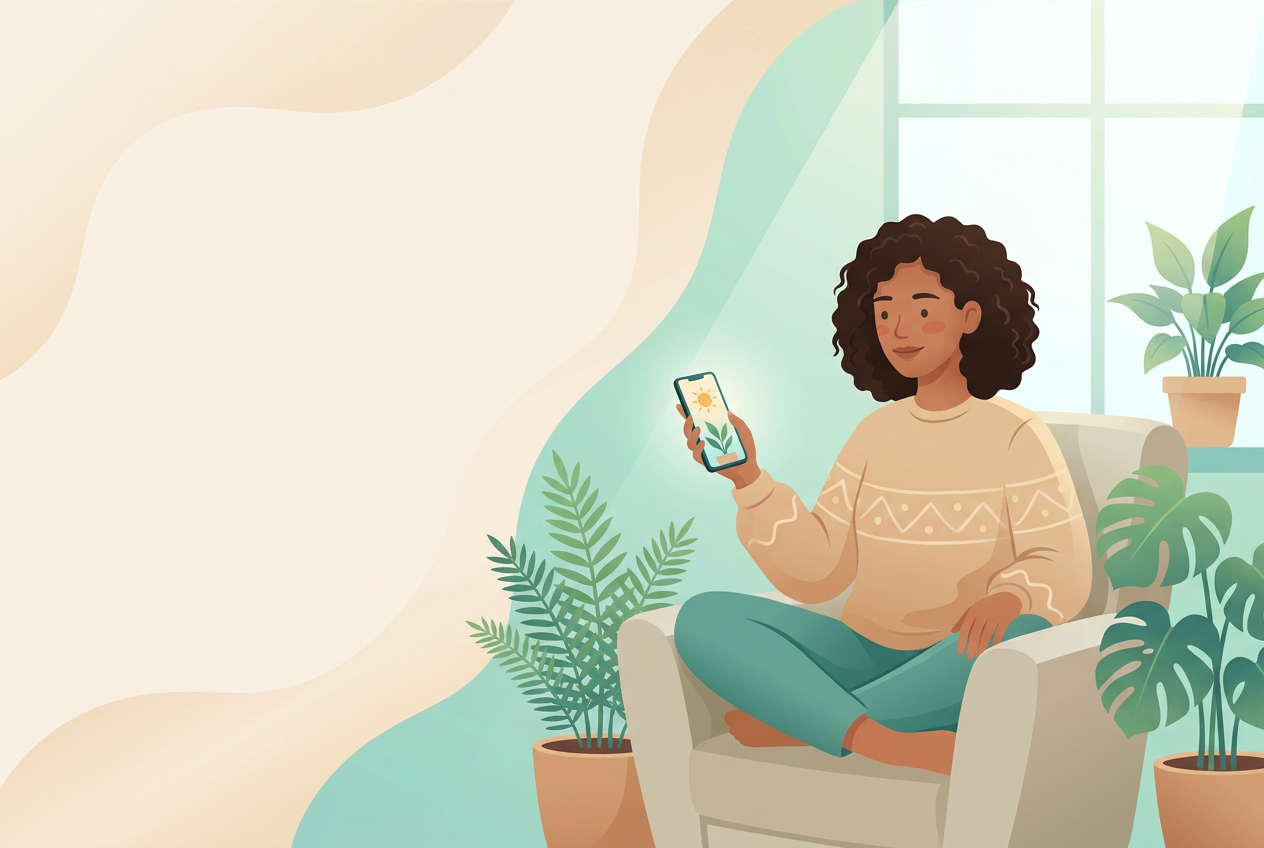
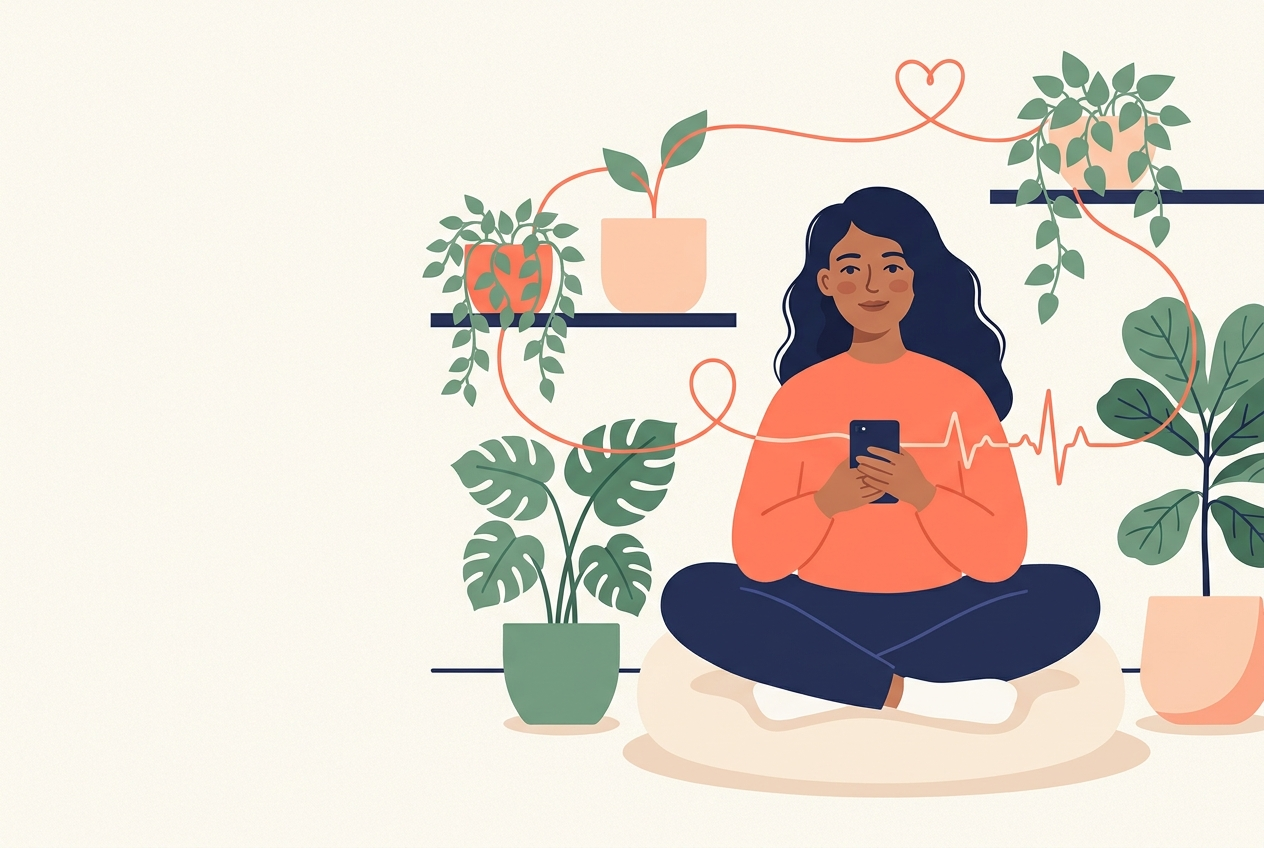
@ feat(ui): mejora visual integral (10/10) — ilustraciones, animaciones, micro-interacciones
- Higgsfield: hero, mascota (Compi) y arte abstracto "El Hilo" en paleta indigo/coral/salvia.
- Landing: aurora animada, "El Hilo" que se dibuja (stroke), scroll-reveal escalonado,
  flotacion, cards con lift+glow, botones con brillo, hover en iconos.
- Panel: entrada de pagina, cards interactivas, nav animado, campana/SOS con latido, spinner,
  brillo en botones. Respeta prefers-reduced-motion.

@

diff --git a/landing/src/app/globals.css b/landing/src/app/globals.css
@@ -167,5 +167,68 @@ footer a:hover { color: var(--coral); }
 .disclaimer { border-top: 1px solid rgba(255,255,255,.1); padding-top: 20px; font-size: 13px; color: var(--indigo-300); }
 .endorse { font-size: 12px; color: var(--indigo-300); margin-top: 8px; }
 
-.fade-up { animation: fadeUp .7s cubic-bezier(.4,0,.2,1) both; }
-@keyframes fadeUp { from { opacity: 0; transform: translateY(16px); } to { opacity: 1; transform: none; } }
+.fade-up { animation: fadeUp .8s cubic-bezier(.16,1,.3,1) both; }
+@keyframes fadeUp { from { opacity: 0; transform: translateY(20px); } to { opacity: 1; transform: none; } }
+
+/* ===================== POLISH VISUAL 10/10 ===================== */
+@media (prefers-reduced-motion: no-preference) {
+
+/* Scroll reveal */
+.reveal { opacity: 0; transform: translateY(28px); transition: opacity .7s cubic-bezier(.16,1,.3,1), transform .7s cubic-bezier(.16,1,.3,1); }
+.reveal.in { opacity: 1; transform: none; }
+
+/* Aurora / mesh animada en hero y CTA */
+.aurora { position: absolute; inset: -20%; z-index: -2; filter: blur(60px); opacity: .55; pointer-events: none; }
+.aurora span { position: absolute; border-radius: 50%; mix-blend-mode: multiply; animation: drift 18s ease-in-out infinite; }
+.aurora .a1 { width: 46vw; height: 46vw; left: 55%; top: -10%; background: radial-gradient(circle, rgba(255,122,89,.55), transparent 70%); }
+.aurora .a2 { width: 40vw; height: 40vw; left: -10%; top: 20%; background: radial-gradient(circle, rgba(95,155,126,.45), transparent 70%); animation-delay: -6s; }
+.aurora .a3 { width: 38vw; height: 38vw; left: 30%; top: 40%; background: radial-gradient(circle, rgba(123,145,188,.45), transparent 70%); animation-delay: -12s; }
+@keyframes drift { 0%,100% { transform: translate(0,0) scale(1); } 33% { transform: translate(4%, -6%) scale(1.08); } 66% { transform: translate(-5%, 5%) scale(.95); } }
+
+/* El Hilo que se dibuja solo */
+.hilo-draw path { stroke-dasharray: 2600; stroke-dashoffset: 2600; animation: draw 3s cubic-bezier(.16,1,.3,1) forwards; }
+.hilo-draw path:nth-child(2) { animation-delay: .25s; opacity: .5; }
+@keyframes draw { to { stroke-dashoffset: 0; } }
+
+/* Flotación suave (logo/orbes/hero art) */
+.float { animation: float 7s ease-in-out infinite; }
+@keyframes float { 0%,100% { transform: translateY(0); } 50% { transform: translateY(-12px); } }
+
+/* Latido del isotipo (nav/footer) */
+.brand-lockup:hover svg { animation: beat 1.2s ease-in-out; }
+@keyframes beat { 0%,100% { transform: scale(1); } 25% { transform: scale(1.12); } 40% { transform: scale(.96); } 60% { transform: scale(1.06); } }
+
+}
+
+/* Tarjetas: lift + glow (también sin motion, es hover) */
+.card { position: relative; }
+.card::after { content: ""; position: absolute; inset: 0; border-radius: inherit; box-shadow: 0 0 0 0 rgba(255,122,89,0); transition: box-shadow .3s, border-color .3s; pointer-events: none; }
+.card:hover { transform: translateY(-6px); }
+.card:hover::after { box-shadow: 0 0 0 1.5px rgba(255,122,89,.35); }
+.card .ico { transition: transform .3s cubic-bezier(.16,1,.3,1), background .3s; }
+.card:hover .ico { transform: scale(1.1) rotate(-4deg); background: var(--coral); color: #fff; }
+
+/* Botones con brillo */
+.btn { position: relative; overflow: hidden; }
+.btn::before { content: ""; position: absolute; top: 0; left: -120%; width: 60%; height: 100%; background: linear-gradient(100deg, transparent, rgba(255,255,255,.45), transparent); transform: skewX(-18deg); transition: left .55s ease; }
+.btn:hover::before { left: 140%; }
+
+/* Hero art frame con borde gradiente */
+.hero-art { position: relative; }
+.hero-art::before { content: ""; position: absolute; inset: -2px; border-radius: calc(var(--radio-xl) + 2px); background: linear-gradient(130deg, var(--coral), var(--salvia), var(--azul)); z-index: -1; opacity: .8; }
+
+/* Eyebrow con punto que pulsa */
+.eyebrow::after { content: ""; width: 7px; height: 7px; border-radius: 50%; background: var(--salvia); margin-left: 2px; animation: pulse 2s ease-in-out infinite; }
+@keyframes pulse { 0%,100% { opacity: 1; box-shadow: 0 0 0 0 rgba(94,155,126,.5); } 50% { opacity: .6; box-shadow: 0 0 0 6px rgba(94,155,126,0); } }
+
+/* Stats grandes en Fraunces con subrayado coral */
+.hero-trust b { position: relative; }
+.steps .n { box-shadow: 0 10px 24px -10px rgba(27,42,74,.5); transition: transform .25s; }
+.step:hover .n { transform: translateY(-4px) scale(1.05); }
+
+/* Chips de roles con hover */
+.role-chip { transition: transform .2s, border-color .2s, color .2s; }
+.role-chip:hover { transform: translateY(-2px); border-color: var(--coral); color: var(--coral-deep); }
+
+/* Divider con el hilo */
+.section-hilo { display: block; width: 100%; height: 60px; color: var(--coral); opacity: .35; }

diff --git a/landing/src/app/page.tsx b/landing/src/app/page.tsx
@@ -1,4 +1,5 @@
 import type { ReactNode } from 'react';
+import { Reveal } from './reveal';
 
 const PANEL_URL = 'https://bienest-admin.vercel.app';
 const API_URL = 'https://bienest-app.vercel.app';
@@ -75,7 +76,7 @@ export default function Home() {
     <>
       <nav className="nav">
         <div className="container nav-inner">
-          <a className="brand-lockup" href="#top"><Hilo size={38} /><span className="name">Bienest<span className="app">APP</span></span></a>
+          <a className="brand-lockup" href="#top"><span className="float"><Hilo size={38} /></span><span className="name">Bienest<span className="app">APP</span></span></a>
           <div className="nav-links">
             <a href="#modulos">Módulos</a>
             <a href="#ia">IA Segura</a>
@@ -88,7 +89,8 @@ export default function Home() {
 
       {/* HERO */}
       <header id="top" className="hero">
-        <HiloWave className="hero-bg" />
+        <div className="aurora" aria-hidden><span className="a1" /><span className="a2" /><span className="a3" /></div>
+        <HiloWave className="hero-bg hilo-draw" />
         <div className="container hero-grid">
           <div className="fade-up">
             <span className="eyebrow">Salud mental preventiva · Colombia</span>
@@ -108,7 +110,7 @@ export default function Home() {
               <div><b>24/7</b> botón SOS</div>
             </div>
           </div>
-          <div className="fade-up">
+          <div className="fade-up float">
             <div className="hero-art"><img src="/hero.png" alt="Persona usando BienestAPP con calma" /></div>
           </div>
         </div>
@@ -131,7 +133,7 @@ export default function Home() {
               <li><span className="chk">✓</span> Privacidad y lenguaje responsable.</li>
             </ul>
           </div>
-          <div className="hero-art"><img src="/hero.png" alt="" /></div>
+          <Reveal><img src="/hilo-art.png" alt="El Hilo — el trazo continuo del cuidado" style={{ width: '100%', borderRadius: 'var(--radio-l)', boxShadow: 'var(--sombra-l)', display: 'block' }} /></Reveal>
         </div>
       </section>
 
@@ -144,12 +146,14 @@ export default function Home() {
             <p>Desde el diario emocional hasta el call center, cada pieza trabaja junta — unida por El Hilo.</p>
           </div>
           <div className="grid">
-            {FEATURES.map((f) => (
-              <div className="card" key={f.t}>
-                <div className="ico"><Ico k={f.k} /></div>
-                <h3>{f.t}</h3>
-                <p>{f.d}</p>
-              </div>
+            {FEATURES.map((f, i) => (
+              <Reveal key={f.t} delay={(i % 3) * 90}>
+                <div className="card">
+                  <div className="ico"><Ico k={f.k} /></div>
+                  <h3>{f.t}</h3>
+                  <p>{f.d}</p>
+                </div>
+              </Reveal>
             ))}
           </div>
         </div>
@@ -200,7 +204,7 @@ export default function Home() {
       {/* MASCOTA */}
       <section className="sec mascota">
         <div className="container mascota-band">
-          <img src="/mascota.png" alt="Compi, la mascota de bienestar" />
+          <img className="float" src="/mascota.png" alt="Compi, la mascota de bienestar" />
           <div>
             <span className="kicker">Conoce a Compi</span>
             <h2 style={{ fontSize: 34, color: 'var(--tinta)', margin: '12px 0 14px' }}>Tu compañero de bienestar</h2>
@@ -252,12 +256,18 @@ export default function Home() {
           <div className="sec-head"><span className="kicker">Seguridad y cumplimiento</span><h2>Hecho para datos de salud</h2>
             <p>Privacidad por diseño y cumplimiento con la normativa de protección de datos en Colombia.</p></div>
           <div className="grid">
-            <div className="card"><div className="ico"><Ico k="shield" /></div><h3>Cifrado en tránsito y reposo</h3><p>TLS y cifrado de columnas sensibles. Tus datos viajan y se guardan protegidos.</p></div>
-            <div className="card"><div className="ico"><Ico k="doc" /></div><h3>Habeas Data (Ley 1581)</h3><p>Consentimiento informado, finalidad declarada y tus derechos siempre disponibles.</p></div>
-            <div className="card"><div className="ico"><Ico k="users" /></div><h3>Acceso por roles</h3><p>RBAC con auditoría append-only de cada acceso a información sensible.</p></div>
-            <div className="card"><div className="ico"><Ico k="layers" /></div><h3>Datos separados</h3><p>Información clínica, emocional y operativa en dominios distintos.</p></div>
-            <div className="card"><div className="ico"><Ico k="eye" /></div><h3>Anonimización</h3><p>Reportes agregados sin información personal identificable.</p></div>
-            <div className="card"><div className="ico"><Ico k="hospital" /></div><h3>Listo para FHIR/HL7</h3><p>Arquitectura preparada para interoperabilidad clínica futura.</p></div>
+            {[
+              { k: 'shield', t: 'Cifrado en tránsito y reposo', d: 'TLS y cifrado de columnas sensibles. Tus datos viajan y se guardan protegidos.' },
+              { k: 'doc', t: 'Habeas Data (Ley 1581)', d: 'Consentimiento informado, finalidad declarada y tus derechos siempre disponibles.' },
+              { k: 'users', t: 'Acceso por roles', d: 'RBAC con auditoría append-only de cada acceso a información sensible.' },
+              { k: 'layers', t: 'Datos separados', d: 'Información clínica, emocional y operativa en dominios distintos.' },
+              { k: 'eye', t: 'Anonimización', d: 'Reportes agregados sin información personal identificable.' },
+              { k: 'hospital', t: 'Listo para FHIR/HL7', d: 'Arquitectura preparada para interoperabilidad clínica futura.' },
+            ].map((s, i) => (
+              <Reveal key={s.k} delay={(i % 3) * 90}>
+                <div className="card"><div className="ico"><Ico k={s.k} /></div><h3>{s.t}</h3><p>{s.d}</p></div>
+              </Reveal>
+            ))}
           </div>
         </div>
       </section>
@@ -266,7 +276,8 @@ export default function Home() {
       <section className="sec">
         <div className="container">
           <div className="cta">
-            <HiloWave className="hero-bg" />
+            <div className="aurora" aria-hidden><span className="a1" /><span className="a2" /></div>
+            <HiloWave className="hero-bg hilo-draw" />
             <h2>Empieza a cuidar tu bienestar hoy</h2>
             <p>Explora la app en vivo o conéctate con tu equipo de Nueva EPS para activarla.</p>
             <div style={{ display: 'flex', gap: 14, justifyContent: 'center', flexWrap: 'wrap', position: 'relative' }}>

diff --git a/web-admin/src/app/globals.css b/web-admin/src/app/globals.css
@@ -171,3 +171,50 @@ tbody tr:hover { background: #FBF8F3; }
   .grid-2, .grid-3, .grid-4 { grid-template-columns: 1fr; }
   .mood-grid { grid-template-columns: 1fr 1fr; }
 }
+
+/* ===================== POLISH VISUAL 10/10 ===================== */
+@media (prefers-reduced-motion: no-preference) {
+  /* Entrada suave del contenido al navegar */
+  .content { animation: pageIn .5s cubic-bezier(.16,1,.3,1) both; }
+  @keyframes pageIn { from { opacity: 0; transform: translateY(10px); } to { opacity: 1; transform: none; } }
+
+  /* Cards interactivas */
+  .card { transition: transform .2s cubic-bezier(.16,1,.3,1), box-shadow .2s; }
+  .card.hover:hover, .card.stat:hover { transform: translateY(-3px); box-shadow: var(--shadow); }
+  .stat .ic { transition: transform .25s; }
+  .card:hover .ic { transform: scale(1.06); }
+
+  /* Nav item activo: deslizamiento del fondo */
+  .nav-item { position: relative; }
+  .nav-item.active { animation: navPop .3s cubic-bezier(.16,1,.3,1); }
+  @keyframes navPop { from { transform: translateX(-4px); opacity: .6; } to { transform: none; opacity: 1; } }
+
+  /* Filas de tabla */
+  tbody tr { transition: background .15s; }
+
+  /* Campana: badge que pulsa */
+  .bell-badge { animation: bellPulse 2.2s ease-in-out infinite; }
+  @keyframes bellPulse { 0%,100% { box-shadow: 0 0 0 0 rgba(200,69,59,.55); } 50% { box-shadow: 0 0 0 5px rgba(200,69,59,0); } }
+
+  /* FAB SOS: latido sutil */
+  .sos-fab { animation: sosBeat 2.6s ease-in-out infinite; }
+  @keyframes sosBeat { 0%,100% { transform: scale(1); } 50% { transform: scale(1.06); } }
+
+  /* Spinner reutilizable */
+  .spin { display: inline-block; width: 18px; height: 18px; border: 2px solid var(--niebla); border-top-color: var(--coral); border-radius: 50%; animation: spin .7s linear infinite; }
+  @keyframes spin { to { transform: rotate(360deg); } }
+}
+
+/* Botones con brillo (también sin motion: solo en hover) */
+.btn { position: relative; overflow: hidden; }
+.btn::before { content: ""; position: absolute; top: 0; left: -120%; width: 55%; height: 100%; background: linear-gradient(100deg, transparent, rgba(255,255,255,.4), transparent); transform: skewX(-18deg); transition: left .5s ease; }
+.btn:hover::before { left: 140%; }
+
+/* Chips e iconos de nav con micro-interacción */
+.chip { transition: transform .15s, filter .15s; }
+.chip:active { transform: scale(.96); }
+.mood-btn { transition: transform .15s, border-color .15s, background .15s; }
+.mood-btn:active { transform: scale(.97); }
+
+/* Anillos de progreso suaves */
+svg circle { transition: stroke-dashoffset .5s cubic-bezier(.16,1,.3,1); }

diff --git a/landing/src/app/reveal.tsx b/landing/src/app/reveal.tsx
@@ -1,0 +1,27 @@
+'use client';
+
+import { useEffect, useRef, useState, type ReactNode } from 'react';
+
+/** Revela su contenido con una animación suave al entrar en viewport. */
+export function Reveal({ children, delay = 0, as = 'div', className = '' }: { children: ReactNode; delay?: number; as?: any; className?: string }) {
+  const ref = useRef<HTMLDivElement>(null);
+  const [shown, setShown] = useState(false);
+
+  useEffect(() => {
+    const el = ref.current;
+    if (!el) return;
+    const obs = new IntersectionObserver(
+      (entries) => entries.forEach((e) => { if (e.isIntersecting) { setShown(true); obs.disconnect(); } }),
+      { rootMargin: '0px 0px -10% 0px', threshold: 0.08 },
+    );
+    obs.observe(el);
+    return () => obs.disconnect();
+  }, []);
+
+  const Tag: any = as;
+  return (
+    <Tag ref={ref} className={`reveal ${shown ? 'in' : ''} ${className}`} style={{ transitionDelay: `${delay}ms` }}>
+      {children}
+    </Tag>
+  );
+}

diff --git a/web-admin/src/components/notifications-bell.tsx b/web-admin/src/components/notifications-bell.tsx
@@ -43,7 +43,7 @@ export function NotificationsBell() {
     <div ref={ref} style={{ position: 'relative' }}>
       <button onClick={toggle} aria-label="Notificaciones" style={btn}>
         🔔
-        {count > 0 && <span style={badge}>{count > 9 ? '9+' : count}</span>}
+        {count > 0 && <span className="bell-badge" style={badge}>{count > 9 ? '9+' : count}</span>}
       </button>
       {open && (
         <div style={panel}>